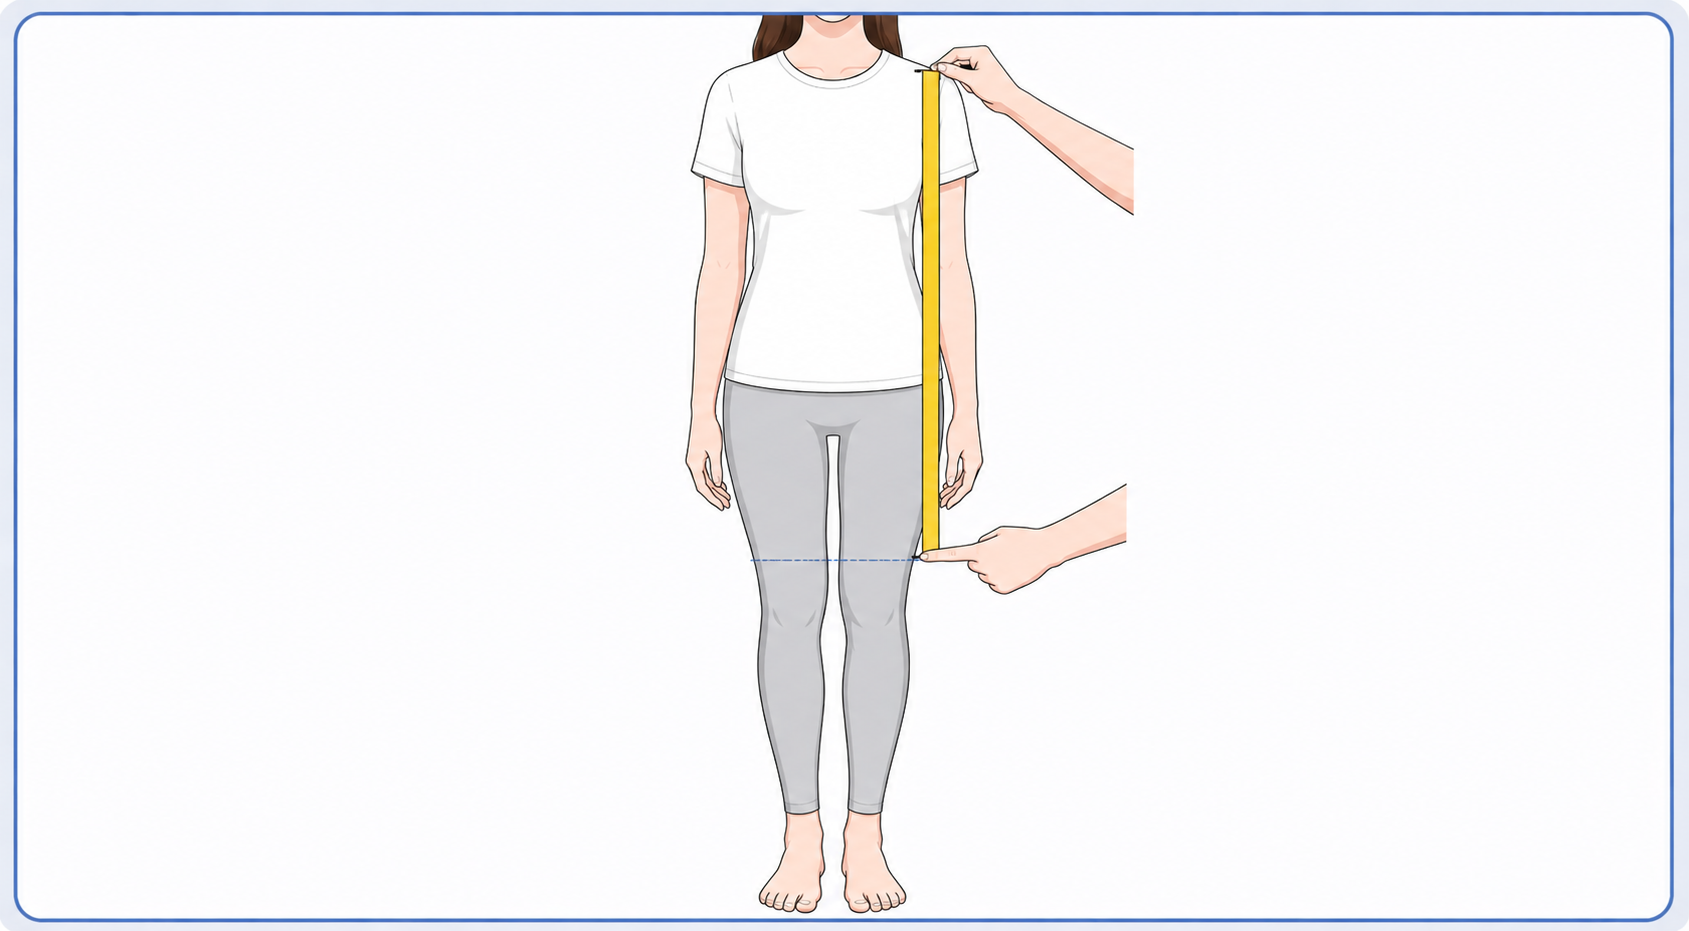
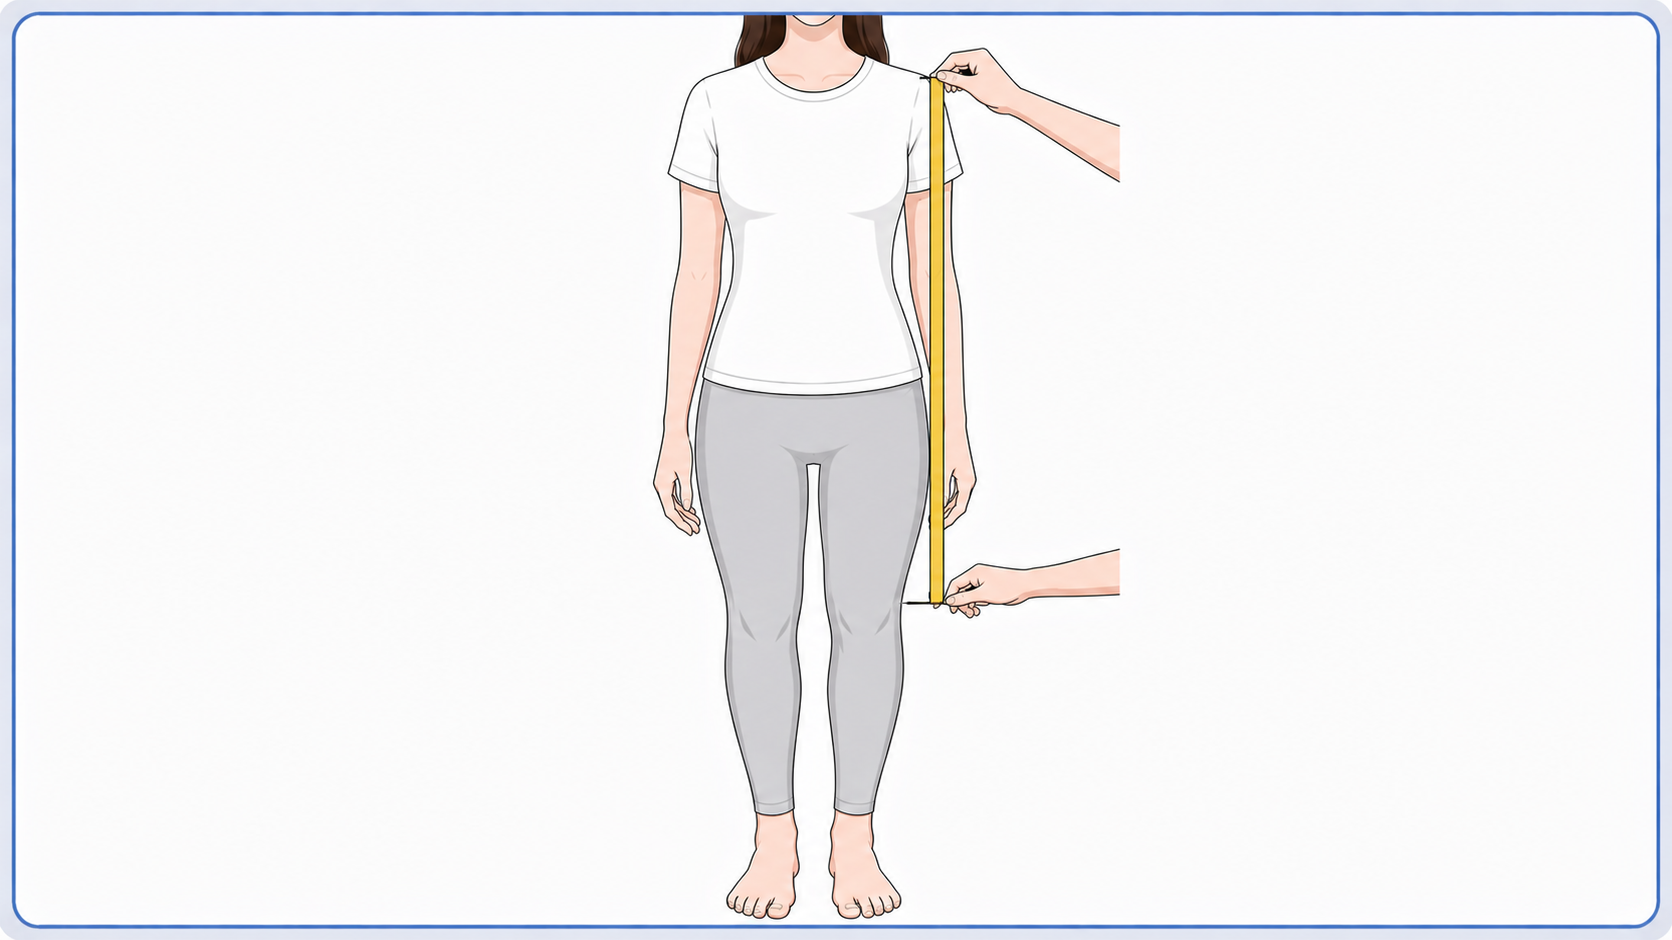
Change layout

Changed region(s): [[0.0, 0.0, 0.9952, 0.9968]]

diff --git a/lib/screens/customer/measurement_screen.dart b/lib/screens/customer/measurement_screen.dart
@@ -70,8 +70,7 @@ class MeasurementGuideContent {
 const Map<String, MeasurementGuideContent> kMeasurementGuides = {
   'upperBustCircumference': MeasurementGuideContent(
     text:
-        'Wrap the tape across the fullest part of your chest, just above the '
-        'bust, keeping it horizontal and snug but not tight.',
+        'Wrap the tape above the fullest part of your chest, keeping it horizontal and snug but not tight.',
     assetPath: 'assets/images/guides/upperBustCircumference.png',
   ),
   'roundShoulderCircumference': MeasurementGuideContent(
@@ -200,11 +199,6 @@ class _MeasurementScreenState extends State<MeasurementScreen> {
         initialInches: widget.measurement.upperBustCircumference,
       ),
       _MeasurementEntry(
-        label: 'Round Shoulder Circumference',
-        fieldKey: 'roundShoulderCircumference',
-        initialInches: widget.measurement.roundShoulderCircumference,
-      ),
-      _MeasurementEntry(
         label: 'Bust Circumference',
         fieldKey: 'bustCircumference',
         initialInches: widget.measurement.bustCircumference,
@@ -215,9 +209,9 @@ class _MeasurementScreenState extends State<MeasurementScreen> {
         initialInches: widget.measurement.underBustCircumference,
       ),
       _MeasurementEntry(
-        label: 'Hips Circumference',
-        fieldKey: 'hipsCircumference',
-        initialInches: widget.measurement.hipsCircumference,
+        label: 'Round Shoulder Circumference',
+        fieldKey: 'roundShoulderCircumference',
+        initialInches: widget.measurement.roundShoulderCircumference,
       ),
       _MeasurementEntry(
         label: 'Shoulder to Bust',
@@ -230,14 +224,25 @@ class _MeasurementScreenState extends State<MeasurementScreen> {
         initialInches: widget.measurement.shoulderToUnderBust,
       ),
       _MeasurementEntry(
-        label: 'Waist',
-        fieldKey: 'waist',
-        initialInches: widget.measurement.waist,
-      ),
-      _MeasurementEntry(
         label: 'Shoulder to Knee',
         fieldKey: 'shoulderToKnee',
         initialInches: widget.measurement.shoulderToKnee,
+      ),
+      _MeasurementEntry(
+        label: 'Shoulder to Ankle',
+        fieldKey: 'shoulderToAnkle',
+        initialInches: widget.measurement.shoulderToAnkle,
+      ),
+      
+      _MeasurementEntry(
+        label: 'Waist to Ankle',
+        fieldKey: 'waistToAnkle',
+        initialInches: widget.measurement.waistToAnkle,
+      ),
+      _MeasurementEntry(
+        label: 'Waist',
+        fieldKey: 'waist',
+        initialInches: widget.measurement.waist,
       ),
       _MeasurementEntry(
         label: 'Thigh',
@@ -254,15 +259,10 @@ class _MeasurementScreenState extends State<MeasurementScreen> {
         fieldKey: 'ankle',
         initialInches: widget.measurement.ankle,
       ),
-      _MeasurementEntry(
-        label: 'Waist to Ankle',
-        fieldKey: 'waistToAnkle',
-        initialInches: widget.measurement.waistToAnkle,
-      ),
-      _MeasurementEntry(
-        label: 'Shoulder to Ankle',
-        fieldKey: 'shoulderToAnkle',
-        initialInches: widget.measurement.shoulderToAnkle,
+       _MeasurementEntry(
+        label: 'Hips Circumference',
+        fieldKey: 'hipsCircumference',
+        initialInches: widget.measurement.hipsCircumference,
       ),
     ];
   }
@@ -376,12 +376,12 @@ class _MeasurementScreenState extends State<MeasurementScreen> {
                     ),
                   ],
                 ),
-                const SizedBox(height: 8),
+                const SizedBox(height: 6),
                 if (guide != null) ...[
                   ClipRRect(
                     borderRadius: BorderRadius.circular(14),
                     child: AspectRatio(
-                      aspectRatio: 1.1,
+                      aspectRatio: 1.6,
                       child: Container(
                         color: _MeasurementColors.background,
                         child: Image.asset(
@@ -393,7 +393,7 @@ class _MeasurementScreenState extends State<MeasurementScreen> {
                               child: Icon(
                                 Icons.image_not_supported_outlined,
                                 color: _MeasurementColors.subtleText,
-                                size: 28,
+                                size: 32,
                               ),
                             );
                           },
@@ -427,7 +427,10 @@ class _MeasurementScreenState extends State<MeasurementScreen> {
   }
 
   double _valueFor(String label) {
-    final entry = _entries.firstWhere((e) => e.label == label);
+    final entry = _entries.firstWhere(
+      (e) => e.label == label,
+      orElse: () => _MeasurementEntry(label: label, fieldKey: '', initialInches: 0),
+    );
     return entry.currentInches;
   }
 
@@ -629,6 +632,7 @@ class _MeasurementFieldState extends State<MeasurementField> {
   }
 
   void _recalculate() {
+    if (!mounted) return;
     final entry = widget.entry;
     final parsed = double.tryParse(entry.controller.text.trim());
     setState(() {
@@ -644,7 +648,7 @@ class _MeasurementFieldState extends State<MeasurementField> {
   }
 
   void _onUnitChanged(MeasurementUnit? newUnit) {
-    if (newUnit == null) return;
+    if (newUnit == null || !mounted) return;
     final entry = widget.entry;
 
     // Preserve the physical measurement: convert the current displayed